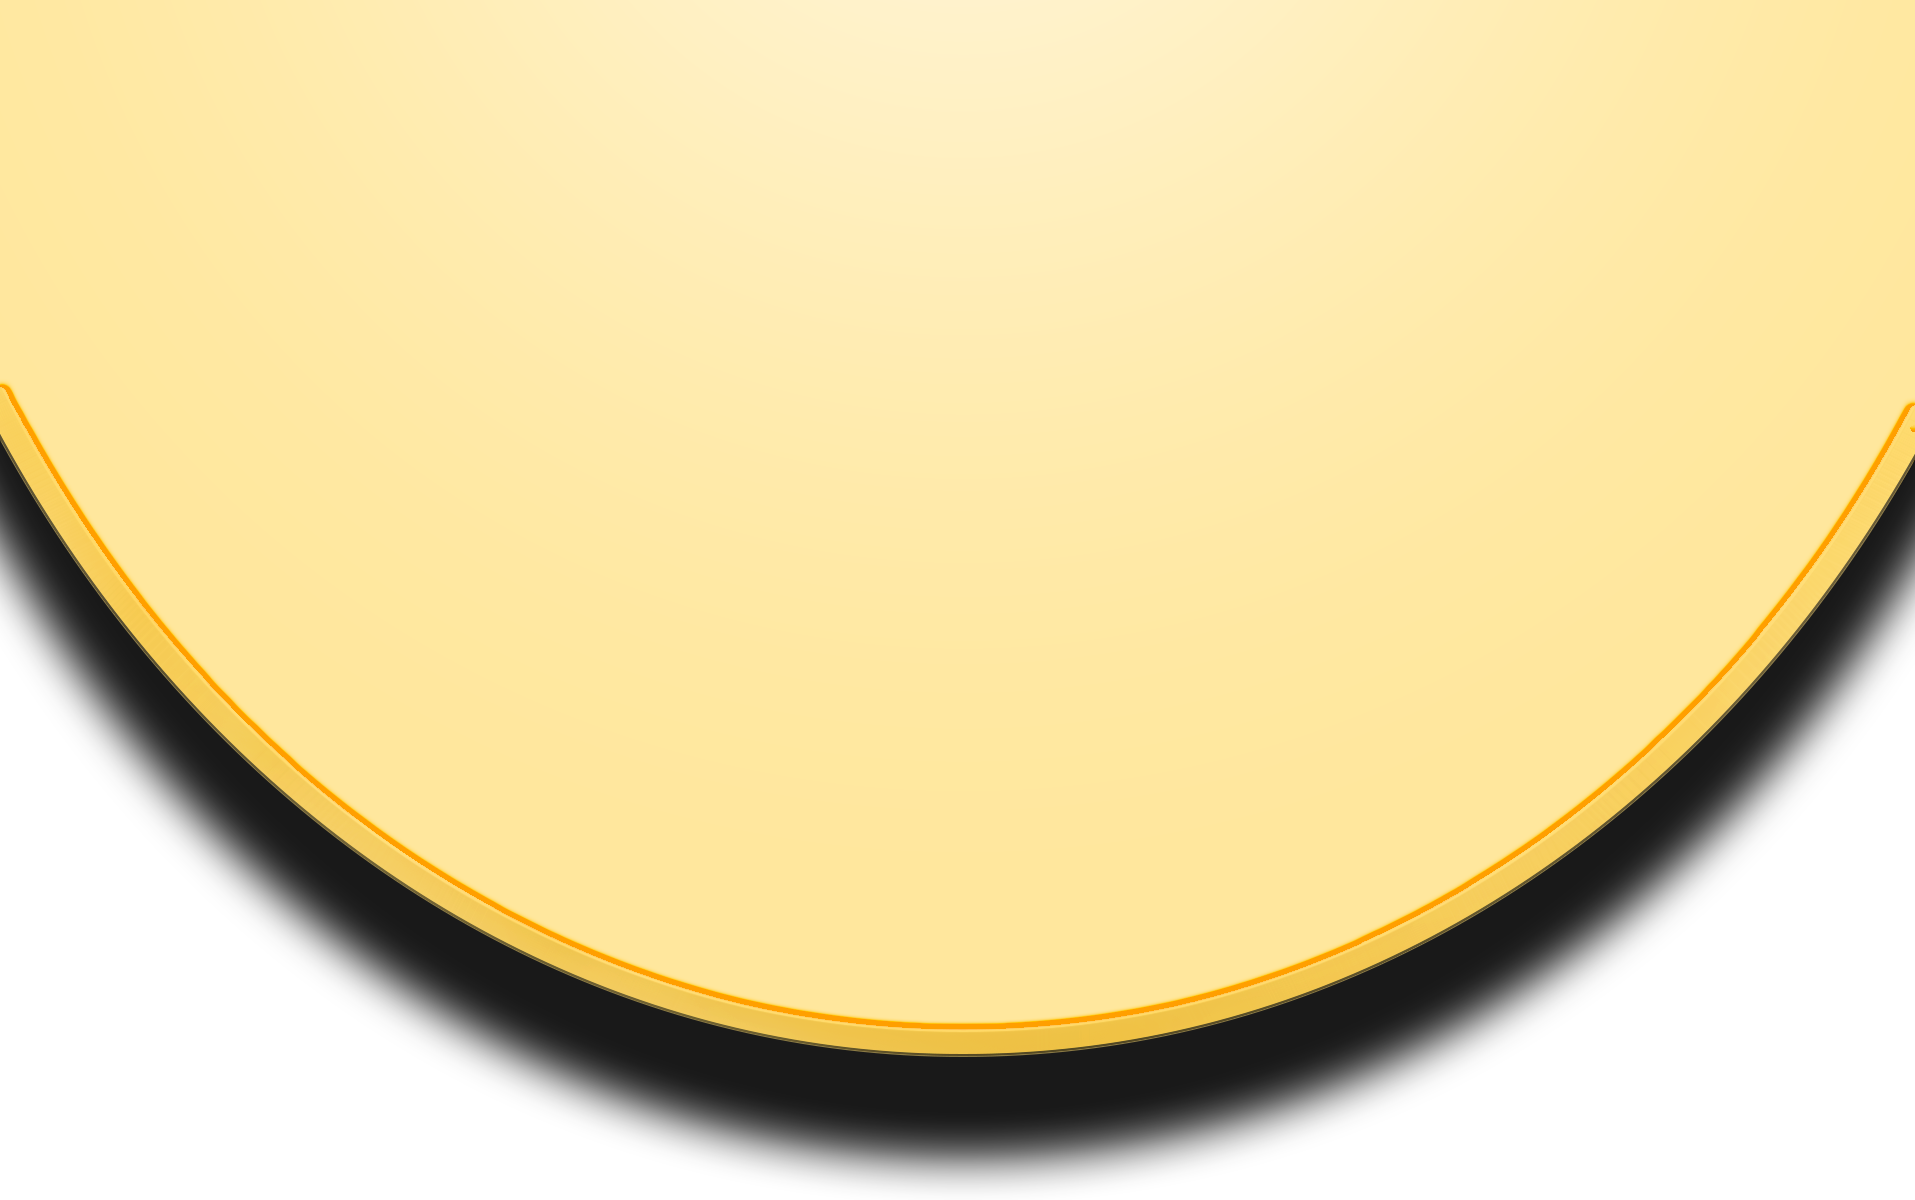
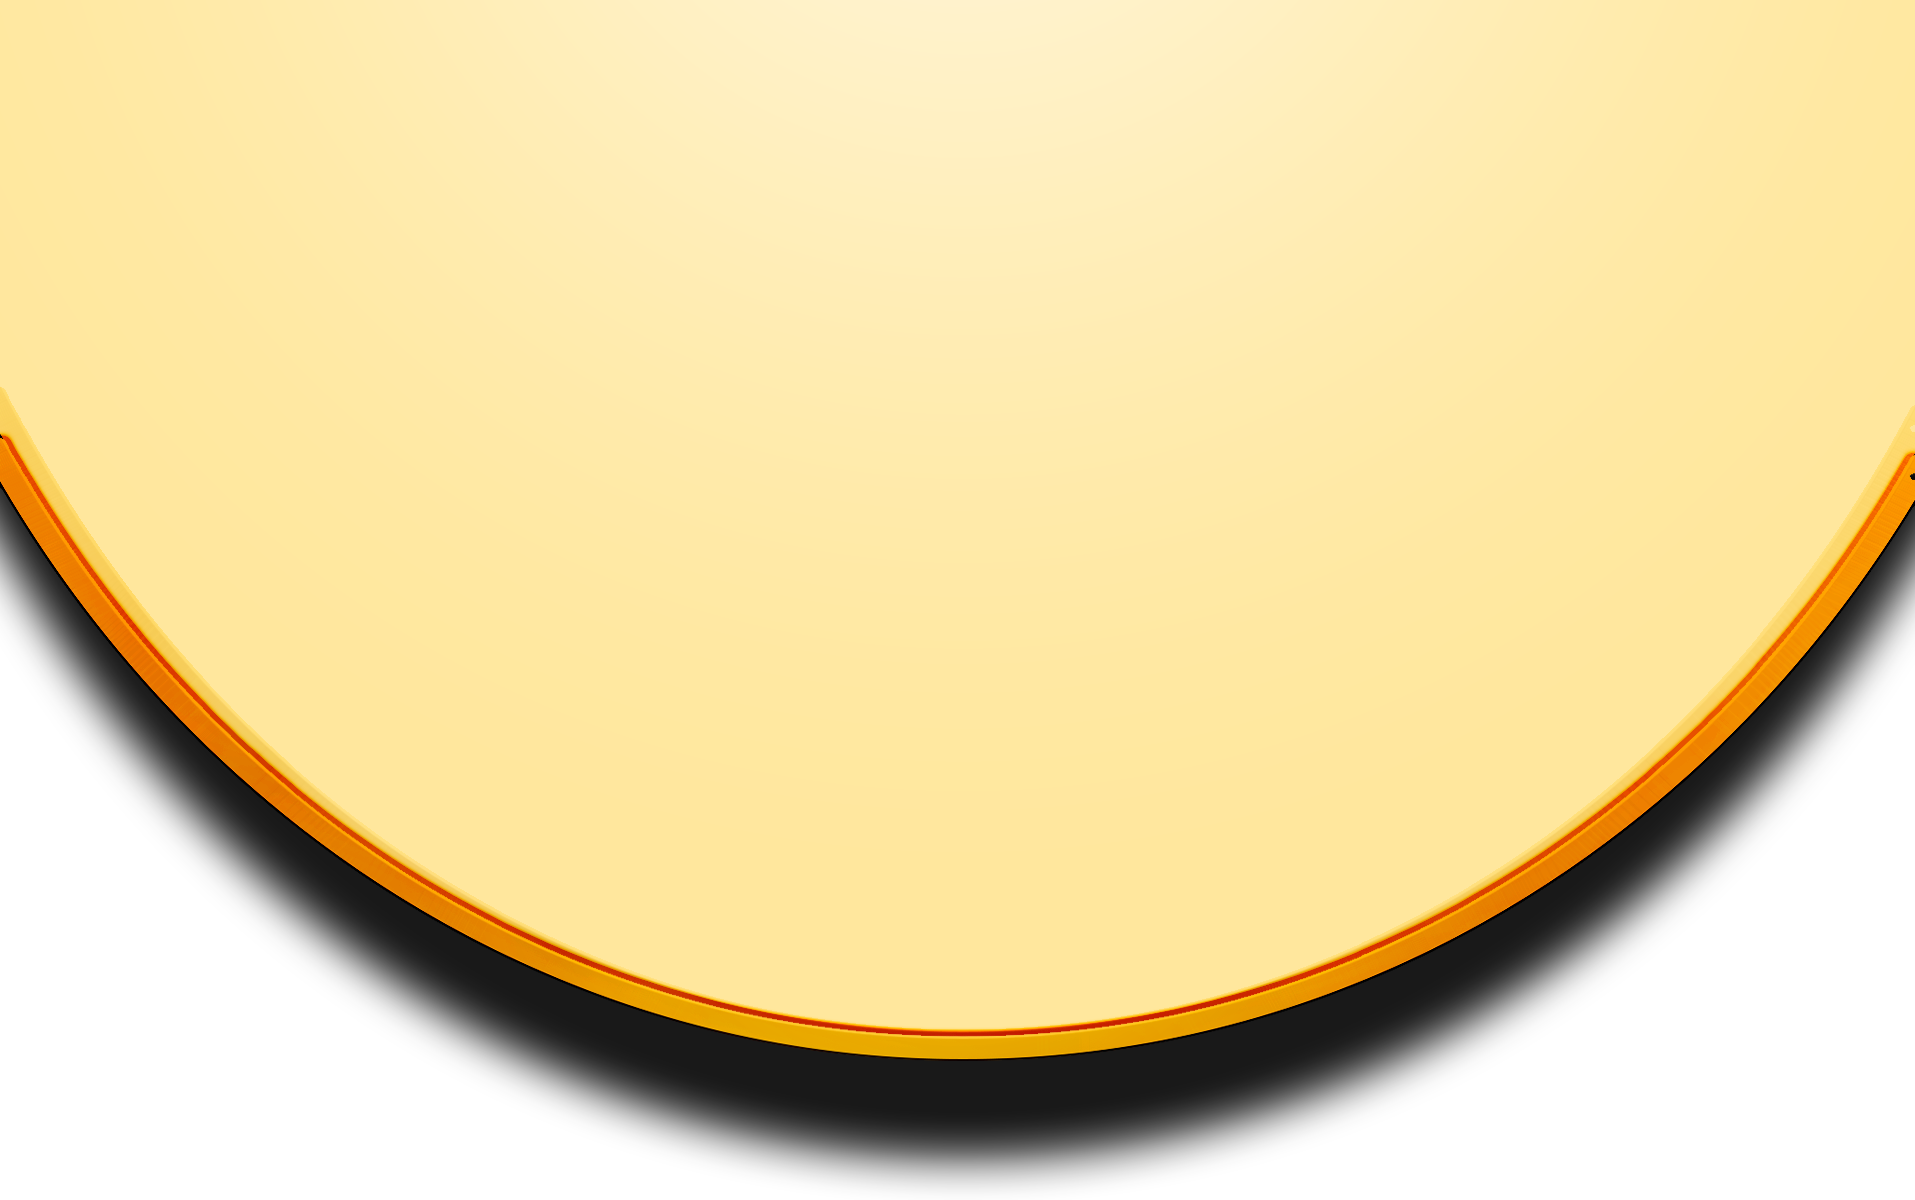
Updated visor image and resolume file

Changed region(s): [[0.0, 0.3392, 1.0, 0.8942]]

diff --git a/node-booth.js b/node-booth.js
@@ -167,7 +167,9 @@ function initResolume() {
     toOSC('/layer4/clip1/connect', 1);
     toOSC('/layer5/clip1/connect', 1);
 
-    raiseMask();
+    //Start with visor down
+    lowerMask();
+    toggleLayers([4,5], [1,2,3]);
     fadeInComp();
 
 };
@@ -207,7 +209,6 @@ function toggleLayers(shows, hides) {
     for (var i = 0; i < shows.length; i++) {
         toOSC('/layer'+shows[i]+'/bypassed', 0);
     };
-
     //hide these layers
     for (var i = 0; i < hides.length; i++) {
         toOSC('/layer'+hides[i]+'/bypassed', 1);

diff --git a/index-booth.html b/index-booth.html
@@ -411,6 +411,7 @@
           if (cur_source == 'visor'){
             //Raise visor with looping video
             vidSource('loop');
+            resolumeControl('raise');
           } else {
             clearSS();
           }
